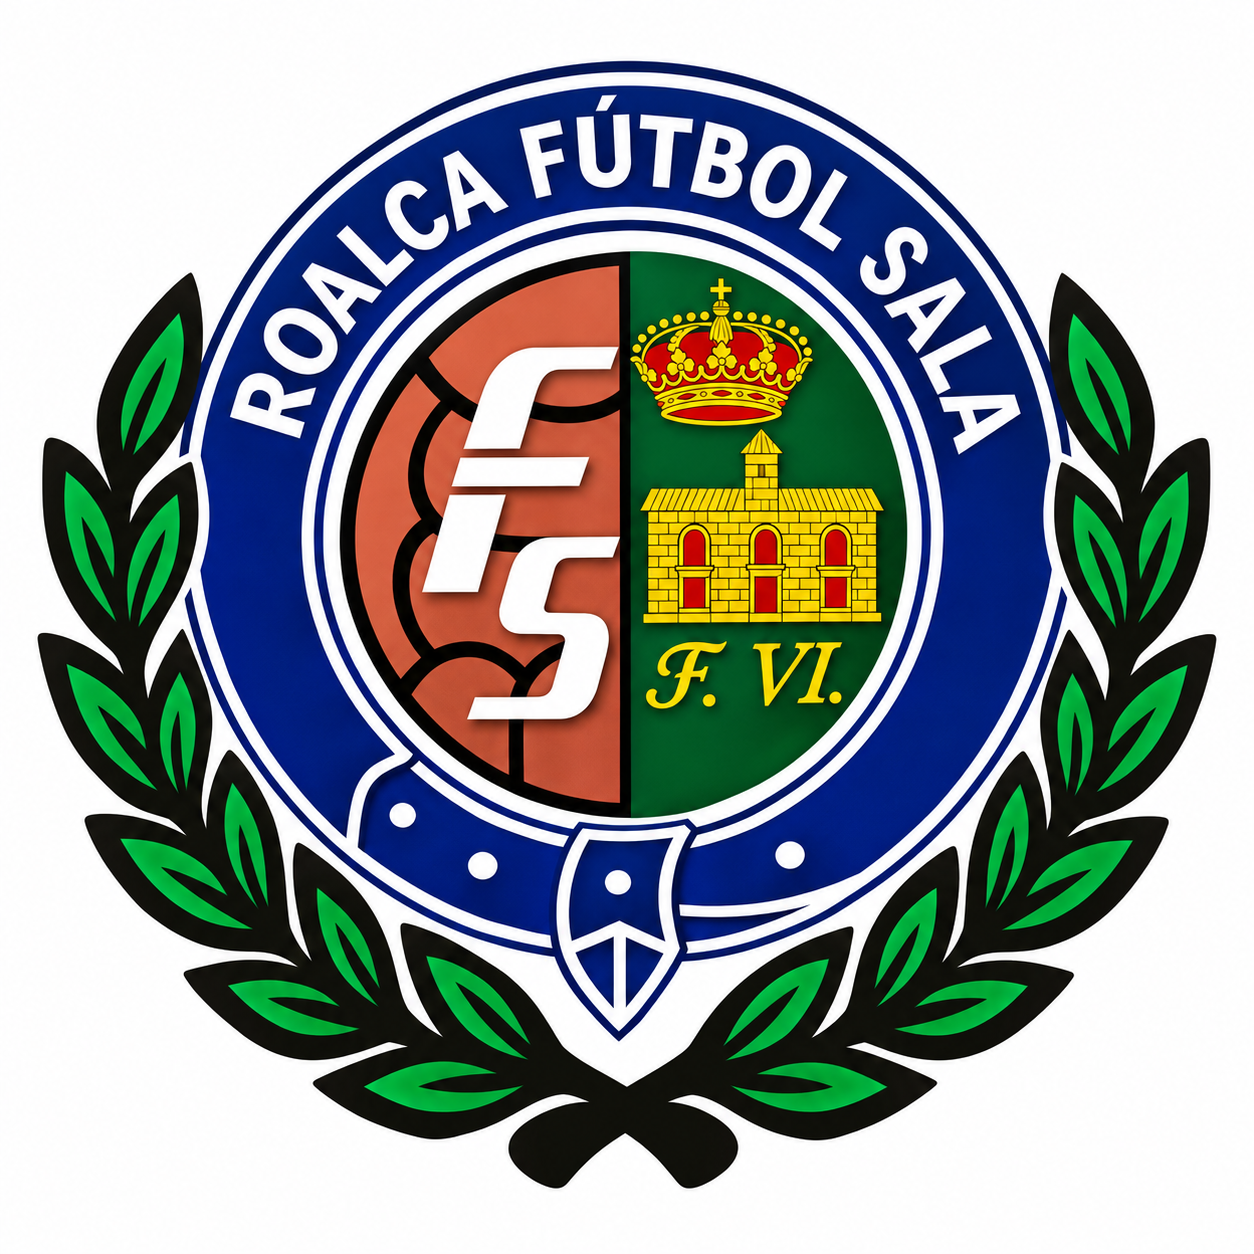
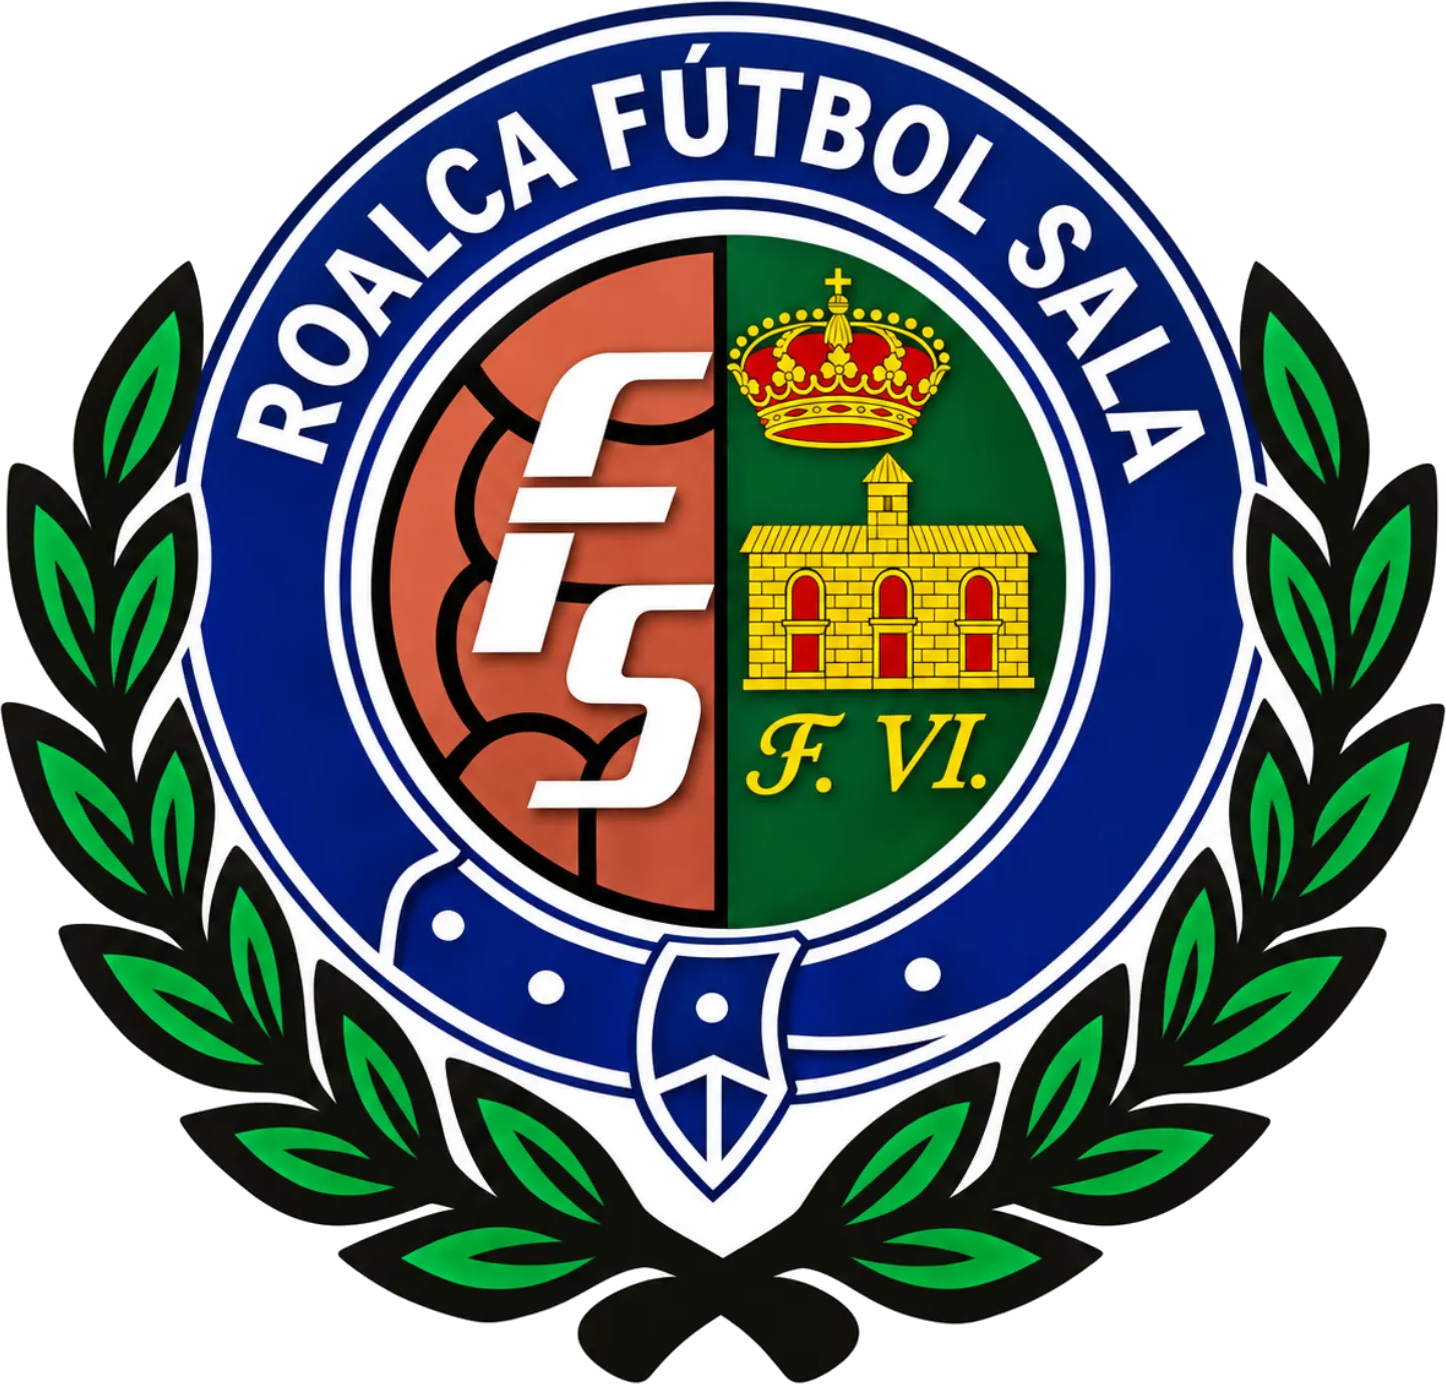
Add files via upload

diff --git a/styles.css b/styles.css
@@ -1,6 +1,6 @@
 @import url('https://fonts.googleapis.com/css2?family=Barlow+Condensed:wght@500;600;700;800;900&family=Inter:wght@400;500;600;700;800&display=swap');
 :root{--bg:#0b0b10;--panel:#14141c;--panel2:#1b1b25;--text:#f7f5f7;--muted:#a6a2aa;--pink:#ff168b;--line:#2d2931;--shadow:0 20px 60px #0005}
 body.light{--bg:#f5f3f6;--panel:#fff;--panel2:#eeeaf0;--text:#17131a;--muted:#68616d;--line:#ded8e1;--shadow:0 18px 45px #33223312}
-*{box-sizing:border-box}html{scroll-behavior:smooth;scroll-padding-top:90px}body{margin:0;background:var(--bg);color:var(--text);font-family:Inter,Arial,sans-serif;transition:.25s}a{color:inherit;text-decoration:none}.topbar{height:76px;padding:0 5vw;display:flex;align-items:center;justify-content:space-between;border-bottom:1px solid var(--line);position:sticky;top:0;background:color-mix(in srgb,var(--bg) 92%,transparent);backdrop-filter:blur(16px);z-index:20}.brand{display:flex;align-items:center;gap:10px;font-weight:900;letter-spacing:.04em}.brand small{display:block;font-size:8px;letter-spacing:.18em;color:var(--muted);margin-top:3px}.brand b{color:var(--pink)}.crest{width:39px;height:39px;border:2px solid var(--pink);border-radius:50%;display:grid;place-items:center;color:var(--pink);font:900 25px 'Barlow Condensed';box-shadow:0 0 18px #ff168b35}nav{display:flex;gap:25px;color:var(--muted);font-size:12px;font-weight:700;text-transform:uppercase}nav a:hover,footer a:hover{color:var(--pink)}.themeBtn,.menuBtn{border:1px solid var(--line);background:var(--panel);color:var(--text);border-radius:50%;width:38px;height:38px;cursor:pointer}.menuBtn{display:none}.hero{min-height:540px;padding:90px 8vw 55px;display:grid;grid-template-columns:1.2fr .8fr;align-items:center;position:relative;overflow:hidden;background:radial-gradient(ellipse at 75% 40%,#ff168b22,transparent 38%),linear-gradient(125deg,var(--bg),var(--panel))}.hero:after{content:"";position:absolute;width:430px;height:430px;border:1px solid #ff168b33;border-radius:50%;right:12%;top:8%;box-shadow:0 0 0 35px #ff168b08,0 0 0 75px #ff168b06}.eyebrow{font-size:10px;letter-spacing:.2em;font-weight:800;color:var(--pink);text-transform:uppercase}.hero h1,h2{font:900 clamp(42px,6vw,76px)/.92 'Barlow Condensed',sans-serif;letter-spacing:-.02em;margin:18px 0}.hero h1 em,h2 em{font-style:normal;color:var(--pink)}.heroText>p:not(.eyebrow){color:var(--muted);max-width:480px}.heroBtns{display:flex;gap:12px;margin-top:30px;flex-wrap:wrap}.btn{padding:14px 20px;border-radius:4px;font-size:10px;font-weight:900;letter-spacing:.1em}.pink{background:var(--pink);color:white;box-shadow:0 8px 24px #ff168b40}.ghost{border:1px solid var(--line)}.heroMark{z-index:1;text-align:center}.bigcrest{width:240px;height:240px;border:4px solid var(--pink);border-radius:50%;margin:auto;display:grid;place-content:center;font:900 55px 'Barlow Condensed';box-shadow:0 0 0 14px #ff168b12,0 0 60px #ff168b35}.bigcrest span{display:block;color:var(--pink);font-size:35px}.heroMark small{display:block;margin-top:24px;letter-spacing:.2em;color:var(--muted);font-size:9px}.heroStrip{position:absolute;bottom:0;left:0;right:0;background:var(--pink);color:#fff;display:flex;justify-content:center;gap:30px;padding:12px;font-size:10px;font-weight:900;letter-spacing:.16em}.heroStrip i{height:13px;width:1px;background:#fff8}.section{padding:78px 8vw}.selector,.sectionHead{display:flex;justify-content:space-between;align-items:end;gap:20px}.selector h2,.sectionHead h2,.sponsors h2{font-size:clamp(34px,4.5vw,54px);margin:12px 0 0}.tabs{display:flex;background:var(--panel);border:1px solid var(--line);padding:4px;border-radius:6px}.tabs button,.positionFilters button,.statsTabs button{background:none;border:0;color:var(--muted);padding:11px 18px;font-size:10px;font-weight:900;letter-spacing:.08em;cursor:pointer;border-radius:4px}.tabs button.active,.positionFilters button.active,.statsTabs button.active{background:var(--pink);color:#fff}.pill{border:1px solid var(--line);color:var(--muted);border-radius:30px;padding:8px 13px;font-size:9px;font-weight:800;letter-spacing:.12em;white-space:nowrap}.positionFilters{display:flex;gap:5px;margin:30px 0 22px;flex-wrap:wrap}.playersGrid{display:grid;grid-template-columns:repeat(4,1fr);gap:16px}.player{background:var(--panel);border:1px solid var(--line);border-radius:7px;overflow:hidden;transition:.2s}.player:hover{transform:translateY(-5px);border-color:var(--pink)}.player img{width:100%;height:245px;object-fit:cover;object-position:top;background:var(--panel2)}.player .avatar{height:245px;display:grid;place-items:center;background:linear-gradient(135deg,var(--panel2),var(--panel));font:900 70px 'Barlow Condensed';color:var(--pink)}.playerInfo{padding:14px}.playerInfo small{color:var(--pink);font-weight:800;font-size:9px;letter-spacing:.12em}.playerInfo h3{margin:6px 0;font:800 25px 'Barlow Condensed';text-transform:uppercase}.playerInfo p{margin:0;color:var(--muted);font-size:10px}.darkPanel{background:var(--panel);border-block:1px solid var(--line)}.lineupEmpty{display:grid;grid-template-columns:1fr 1fr;align-items:center;gap:45px;margin-top:35px}.lineupEmpty h3{font:800 28px 'Barlow Condensed'}.lineupEmpty p,.lineupEmpty small{color:var(--muted);line-height:1.7}.court{height:260px;border:2px solid #ff168b88;border-radius:12px;position:relative;background:linear-gradient(90deg,#ff168b12 1px,transparent 1px),linear-gradient(#ff168b12 1px,transparent 1px);background-size:25px 25px;display:grid;place-items:center}.court:before{content:"";position:absolute;inset:0 50%;border-left:1px solid #ff168b88}.centerCircle{width:90px;height:90px;border:1px solid #ff168b88;border-radius:50%}.goal{position:absolute;bottom:-2px;width:100px;height:35px;border:2px solid #ff168b88;border-bottom:0}.courtLabel{position:absolute;top:16px;letter-spacing:.25em;color:#ff168b;font-size:9px;font-weight:900}.agendaTools{display:flex;justify-content:space-between;align-items:center;margin:30px 0 18px;gap:12px}.tabs.small button{padding:9px 14px}select{background:var(--panel);border:1px solid var(--line);color:var(--text);padding:11px;border-radius:5px}.fixtureList{display:grid;grid-template-columns:1fr 1fr;gap:10px}.fixture{background:var(--panel);border:1px solid var(--line);padding:17px;border-radius:6px;display:grid;grid-template-columns:65px 1fr auto;gap:12px;align-items:center}.fixture .round{color:var(--pink);font:800 19px 'Barlow Condensed'}.fixture time{display:block;color:var(--muted);font-size:9px;margin-top:5px}.fixture .teams{font-size:11px;font-weight:800;line-height:1.8}.fixture .venue{font-size:9px;color:var(--muted);text-align:right}.fixture .tag{font-size:8px;color:var(--pink);font-weight:900}.resultCard{margin-top:28px;background:var(--bg);border:1px solid var(--line);border-radius:8px;padding:25px;display:flex;align-items:center;justify-content:space-around;gap:18px;text-align:center}.resultCard strong{display:block;font:900 36px 'Barlow Condensed'}.score{font:900 44px 'Barlow Condensed';color:var(--pink)}.resultCard small{color:var(--muted)}.statsTabs{display:flex;gap:8px;margin:30px 0 18px}.statTable{width:100%;border-collapse:collapse;background:var(--panel);border-radius:8px;overflow:hidden}.statTable th,.statTable td{text-align:left;padding:13px 16px;border-bottom:1px solid var(--line);font-size:12px}.statTable th{color:var(--muted);font-size:9px;letter-spacing:.12em}.statTable td:last-child{text-align:right;color:var(--pink);font-weight:900}.rank{color:var(--muted);width:40px}.note{font-size:10px;color:var(--muted);line-height:1.6}.sponsors{text-align:center;background:radial-gradient(ellipse at 50% 100%,#ff168b15,transparent 60%)}.sponsorGrid{display:grid;grid-template-columns:repeat(3,1fr);gap:15px;margin-top:35px}.sponsorGrid div{padding:28px 12px;border:1px solid var(--line);background:var(--panel);font:900 21px 'Barlow Condensed';letter-spacing:.06em}.sponsorGrid b{color:var(--pink)}footer{padding:28px 8vw;display:flex;justify-content:space-between;align-items:center;gap:20px;border-top:1px solid var(--line)}footer small{color:var(--muted);font-size:9px}footer a{font-size:10px;font-weight:900;color:var(--pink)}.empty{padding:22px;background:var(--panel);border:1px dashed var(--line);border-radius:7px;color:var(--muted);font-size:12px;line-height:1.7}
+*{box-sizing:border-box}html{scroll-behavior:smooth;scroll-padding-top:90px}body{margin:0;background:var(--bg);color:var(--text);font-family:Inter,Arial,sans-serif;transition:.25s}a{color:inherit;text-decoration:none}.topbar{height:76px;padding:0 5vw;display:flex;align-items:center;justify-content:space-between;border-bottom:1px solid var(--line);position:sticky;top:0;background:color-mix(in srgb,var(--bg) 92%,transparent);backdrop-filter:blur(16px);z-index:20}.brand{display:flex;align-items:center;gap:10px;font-weight:900;letter-spacing:.04em}.brand small{display:block;font-size:8px;letter-spacing:.18em;color:var(--muted);margin-top:3px}.brand b{color:var(--pink)}.crest{width:46px;height:46px;object-fit:contain;display:block;flex:none;filter:drop-shadow(0 0 8px #ff168b35)}nav{display:flex;gap:25px;color:var(--muted);font-size:12px;font-weight:700;text-transform:uppercase}nav a:hover,footer a:hover{color:var(--pink)}.themeBtn,.menuBtn{border:1px solid var(--line);background:var(--panel);color:var(--text);border-radius:50%;width:38px;height:38px;cursor:pointer}.menuBtn{display:none}.hero{min-height:540px;padding:90px 8vw 55px;display:grid;grid-template-columns:1.2fr .8fr;align-items:center;position:relative;overflow:hidden;background:radial-gradient(ellipse at 75% 40%,#ff168b22,transparent 38%),linear-gradient(125deg,var(--bg),var(--panel))}.hero:after{content:"";position:absolute;width:430px;height:430px;border:1px solid #ff168b33;border-radius:50%;right:12%;top:8%;box-shadow:0 0 0 35px #ff168b08,0 0 0 75px #ff168b06}.eyebrow{font-size:10px;letter-spacing:.2em;font-weight:800;color:var(--pink);text-transform:uppercase}.hero h1,h2{font:900 clamp(42px,6vw,76px)/.92 'Barlow Condensed',sans-serif;letter-spacing:-.02em;margin:18px 0}.hero h1 em,h2 em{font-style:normal;color:var(--pink)}.heroText>p:not(.eyebrow){color:var(--muted);max-width:480px}.heroBtns{display:flex;gap:12px;margin-top:30px;flex-wrap:wrap}.btn{padding:14px 20px;border-radius:4px;font-size:10px;font-weight:900;letter-spacing:.1em}.pink{background:var(--pink);color:white;box-shadow:0 8px 24px #ff168b40}.ghost{border:1px solid var(--line)}.heroMark{z-index:1;text-align:center}.bigcrest{width:270px;height:270px;object-fit:contain;display:block;margin:auto;filter:drop-shadow(0 0 22px #ff168b35)}.heroMark small{display:block;margin-top:24px;letter-spacing:.2em;color:var(--muted);font-size:9px}.heroStrip{position:absolute;bottom:0;left:0;right:0;background:var(--pink);color:#fff;display:flex;justify-content:center;gap:30px;padding:12px;font-size:10px;font-weight:900;letter-spacing:.16em}.heroStrip i{height:13px;width:1px;background:#fff8}.section{padding:78px 8vw}.selector,.sectionHead{display:flex;justify-content:space-between;align-items:end;gap:20px}.selector h2,.sectionHead h2,.sponsors h2{font-size:clamp(34px,4.5vw,54px);margin:12px 0 0}.tabs{display:flex;background:var(--panel);border:1px solid var(--line);padding:4px;border-radius:6px}.tabs button,.positionFilters button,.statsTabs button{background:none;border:0;color:var(--muted);padding:11px 18px;font-size:10px;font-weight:900;letter-spacing:.08em;cursor:pointer;border-radius:4px}.tabs button.active,.positionFilters button.active,.statsTabs button.active{background:var(--pink);color:#fff}.pill{border:1px solid var(--line);color:var(--muted);border-radius:30px;padding:8px 13px;font-size:9px;font-weight:800;letter-spacing:.12em;white-space:nowrap}.positionFilters{display:flex;gap:5px;margin:30px 0 22px;flex-wrap:wrap}.playersGrid{display:grid;grid-template-columns:repeat(4,1fr);gap:16px}.player{background:var(--panel);border:1px solid var(--line);border-radius:7px;overflow:hidden;transition:.2s}.player:hover{transform:translateY(-5px);border-color:var(--pink)}.player img{width:100%;height:245px;object-fit:cover;object-position:top;background:var(--panel2)}.player .avatar{height:245px;display:grid;place-items:center;background:linear-gradient(135deg,var(--panel2),var(--panel));font:900 70px 'Barlow Condensed';color:var(--pink)}.playerInfo{padding:14px}.playerInfo small{color:var(--pink);font-weight:800;font-size:9px;letter-spacing:.12em}.playerInfo h3{margin:6px 0;font:800 25px 'Barlow Condensed';text-transform:uppercase}.playerInfo p{margin:0;color:var(--muted);font-size:10px}.darkPanel{background:var(--panel);border-block:1px solid var(--line)}.lineupEmpty{display:grid;grid-template-columns:1fr 1fr;align-items:center;gap:45px;margin-top:35px}.lineupEmpty h3{font:800 28px 'Barlow Condensed'}.lineupEmpty p,.lineupEmpty small{color:var(--muted);line-height:1.7}.court{height:260px;border:2px solid #ff168b88;border-radius:12px;position:relative;background:linear-gradient(90deg,#ff168b12 1px,transparent 1px),linear-gradient(#ff168b12 1px,transparent 1px);background-size:25px 25px;display:grid;place-items:center}.court:before{content:"";position:absolute;inset:0 50%;border-left:1px solid #ff168b88}.centerCircle{width:90px;height:90px;border:1px solid #ff168b88;border-radius:50%}.goal{position:absolute;bottom:-2px;width:100px;height:35px;border:2px solid #ff168b88;border-bottom:0}.courtLabel{position:absolute;top:16px;letter-spacing:.25em;color:#ff168b;font-size:9px;font-weight:900}.agendaTools{display:flex;justify-content:space-between;align-items:center;margin:30px 0 18px;gap:12px}.tabs.small button{padding:9px 14px}select{background:var(--panel);border:1px solid var(--line);color:var(--text);padding:11px;border-radius:5px}.fixtureList{display:grid;grid-template-columns:1fr 1fr;gap:10px}.fixture{background:var(--panel);border:1px solid var(--line);padding:17px;border-radius:6px;display:grid;grid-template-columns:65px 1fr auto;gap:12px;align-items:center}.fixture .round{color:var(--pink);font:800 19px 'Barlow Condensed'}.fixture time{display:block;color:var(--muted);font-size:9px;margin-top:5px}.fixture .teams{font-size:11px;font-weight:800;line-height:1.8}.fixture .venue{font-size:9px;color:var(--muted);text-align:right}.fixture .tag{font-size:8px;color:var(--pink);font-weight:900}.resultCard{margin-top:28px;background:var(--bg);border:1px solid var(--line);border-radius:8px;padding:25px;display:flex;align-items:center;justify-content:space-around;gap:18px;text-align:center}.resultCard strong{display:block;font:900 36px 'Barlow Condensed'}.score{font:900 44px 'Barlow Condensed';color:var(--pink)}.resultCard small{color:var(--muted)}.statsTabs{display:flex;gap:8px;margin:30px 0 18px}.statTable{width:100%;border-collapse:collapse;background:var(--panel);border-radius:8px;overflow:hidden}.statTable th,.statTable td{text-align:left;padding:13px 16px;border-bottom:1px solid var(--line);font-size:12px}.statTable th{color:var(--muted);font-size:9px;letter-spacing:.12em}.statTable td:last-child{text-align:right;color:var(--pink);font-weight:900}.rank{color:var(--muted);width:40px}.note{font-size:10px;color:var(--muted);line-height:1.6}.sponsors{text-align:center;background:radial-gradient(ellipse at 50% 100%,#ff168b15,transparent 60%)}.sponsorGrid{display:grid;grid-template-columns:repeat(3,1fr);gap:15px;margin-top:35px}.sponsorGrid div{padding:28px 12px;border:1px solid var(--line);background:var(--panel);font:900 21px 'Barlow Condensed';letter-spacing:.06em}.sponsorGrid b{color:var(--pink)}footer{padding:28px 8vw;display:flex;justify-content:space-between;align-items:center;gap:20px;border-top:1px solid var(--line)}footer small{color:var(--muted);font-size:9px}footer a{font-size:10px;font-weight:900;color:var(--pink)}.empty{padding:22px;background:var(--panel);border:1px dashed var(--line);border-radius:7px;color:var(--muted);font-size:12px;line-height:1.7}
 @media(max-width:900px){nav{gap:12px;font-size:10px}.playersGrid{grid-template-columns:repeat(3,1fr)}.section{padding:60px 5vw}.hero{padding-inline:6vw}}
-@media(max-width:650px){.topbar{padding:0 4vw;height:66px}.menuBtn{display:block;margin-left:auto;margin-right:10px}nav{display:none;position:absolute;top:66px;left:0;right:0;background:var(--panel);padding:18px;flex-direction:column;border-bottom:1px solid var(--line)}nav.open{display:flex}.hero{grid-template-columns:1fr;min-height:580px;padding:70px 6vw 65px}.heroMark{margin-top:45px}.bigcrest{width:155px;height:155px;font-size:38px}.bigcrest span{font-size:25px}.heroStrip{gap:12px;font-size:8px}.selector,.sectionHead{align-items:flex-start;flex-direction:column}.playersGrid{grid-template-columns:repeat(2,1fr);gap:10px}.player img,.player .avatar{height:190px}.lineupEmpty{grid-template-columns:1fr;gap:22px}.fixtureList{grid-template-columns:1fr}.fixture{grid-template-columns:52px 1fr auto;padding:13px}.fixture .teams{font-size:10px}.agendaTools{align-items:flex-start;flex-direction:column}.resultCard{padding:18px 8px}.resultCard strong{font-size:20px}.score{font-size:30px}.sponsorGrid{grid-template-columns:1fr}footer{padding:25px 5vw;flex-wrap:wrap}footer small{order:3;width:100%}}
+@media(max-width:650px){.topbar{padding:0 4vw;height:66px}.menuBtn{display:block;margin-left:auto;margin-right:10px}nav{display:none;position:absolute;top:66px;left:0;right:0;background:var(--panel);padding:18px;flex-direction:column;border-bottom:1px solid var(--line)}nav.open{display:flex}.hero{grid-template-columns:1fr;min-height:580px;padding:70px 6vw 65px}.heroMark{margin-top:45px}.bigcrest{width:190px;height:190px}.heroStrip{gap:12px;font-size:8px}.selector,.sectionHead{align-items:flex-start;flex-direction:column}.playersGrid{grid-template-columns:repeat(2,1fr);gap:10px}.player img,.player .avatar{height:190px}.lineupEmpty{grid-template-columns:1fr;gap:22px}.fixtureList{grid-template-columns:1fr}.fixture{grid-template-columns:52px 1fr auto;padding:13px}.fixture .teams{font-size:10px}.agendaTools{align-items:flex-start;flex-direction:column}.resultCard{padding:18px 8px}.resultCard strong{font-size:20px}.score{font-size:30px}.sponsorGrid{grid-template-columns:1fr}footer{padding:25px 5vw;flex-wrap:wrap}footer small{order:3;width:100%}}

diff --git a/index.html b/index.html
@@ -7,7 +7,7 @@
 </head>
 <body>
 <header class="topbar">
- <a class="brand" href="#inicio"><span class="crest">R</span><span>ROALCA <b>FS</b><small>FÚTBOL SALA · COSLADA</small></span></a>
+ <a class="brand" href="#inicio"><img class="crest" src="escudo-roalca.png" alt="Escudo oficial de Roalca Fútbol Sala"><span>ROALCA <b>FS</b><small>FÚTBOL SALA · COSLADA</small></span></a>
  <button class="menuBtn" id="menuBtn" aria-label="Abrir menú">☰</button>
  <nav id="nav"><a href="#inicio">Inicio</a><a href="#plantilla">Plantilla</a><a href="#alineacion">Alineación</a><a href="#agenda">Agenda</a><a href="#resultados">Resultados</a><a href="#estadisticas">Estadísticas</a></nav>
  <button class="themeBtn" id="themeBtn" aria-label="Cambiar tema">☼</button>
@@ -15,7 +15,7 @@
 <main>
 <section class="hero" id="inicio">
  <div class="heroText"><p class="eyebrow">TEMPORADA 2026 / 2027 · 28ª TEMPORADA</p><h1>UN ESCUDO.<br><em>DOS EQUIPOS.</em></h1><p>La pasión por el fútbol sala se defiende jornada a jornada.</p><div class="heroBtns"><a class="btn pink" href="#agenda">VER CALENDARIO</a><a class="btn ghost" href="#plantilla">NUESTROS JUGADORES</a></div></div>
- <div class="heroMark"><div class="bigcrest">ROALCA<span>FS</span></div><small>COMPETIR · CRECER · DISFRUTAR</small></div>
+ <div class="heroMark"><img class="bigcrest" src="escudo-roalca.png" alt="Escudo oficial de Roalca Fútbol Sala"><small>COMPETIR · CRECER · DISFRUTAR</small></div>
  <div class="heroStrip"><span>ROALCA FS A</span><i></i><span>ROALCA FS B</span><i></i><span>DESDE 1998</span></div>
 </section>
 <section class="section selector">
@@ -50,6 +50,6 @@
  <div class="sponsorGrid"><div>MILLENIUM</div><div>BAR <b>SIMSOM</b></div><div>URBAN COMBAT</div></div>
 </section>
 </main>
-<footer><span class="brand"><span class="crest">R</span><span>ROALCA <b>FS</b></span></span><small>FÚTBOL SALA · COSLADA · © <span id="year"></span></small><a href="#inicio">VOLVER ARRIBA ↑</a></footer>
+<footer><span class="brand"><img class="crest" src="escudo-roalca.png" alt="Escudo oficial de Roalca Fútbol Sala"><span>ROALCA <b>FS</b></span></span><small>FÚTBOL SALA · COSLADA · © <span id="year"></span></small><a href="#inicio">VOLVER ARRIBA ↑</a></footer>
 <script src="data.js"></script><script src="script.js"></script>
 </body></html>

diff --git a/data.js b/data.js
@@ -38,7 +38,7 @@ window.ROALCA_DATA = {
           "name": "D. Jiménez",
           "number": 9,
           "position": "Ala",
-          "photo": "assets/jugadores/09-d-jiménez.webp"
+          "photo": "assets/jugadores/09-d-jimenez.webp"
         },
         {
           "name": "Juanjo",
